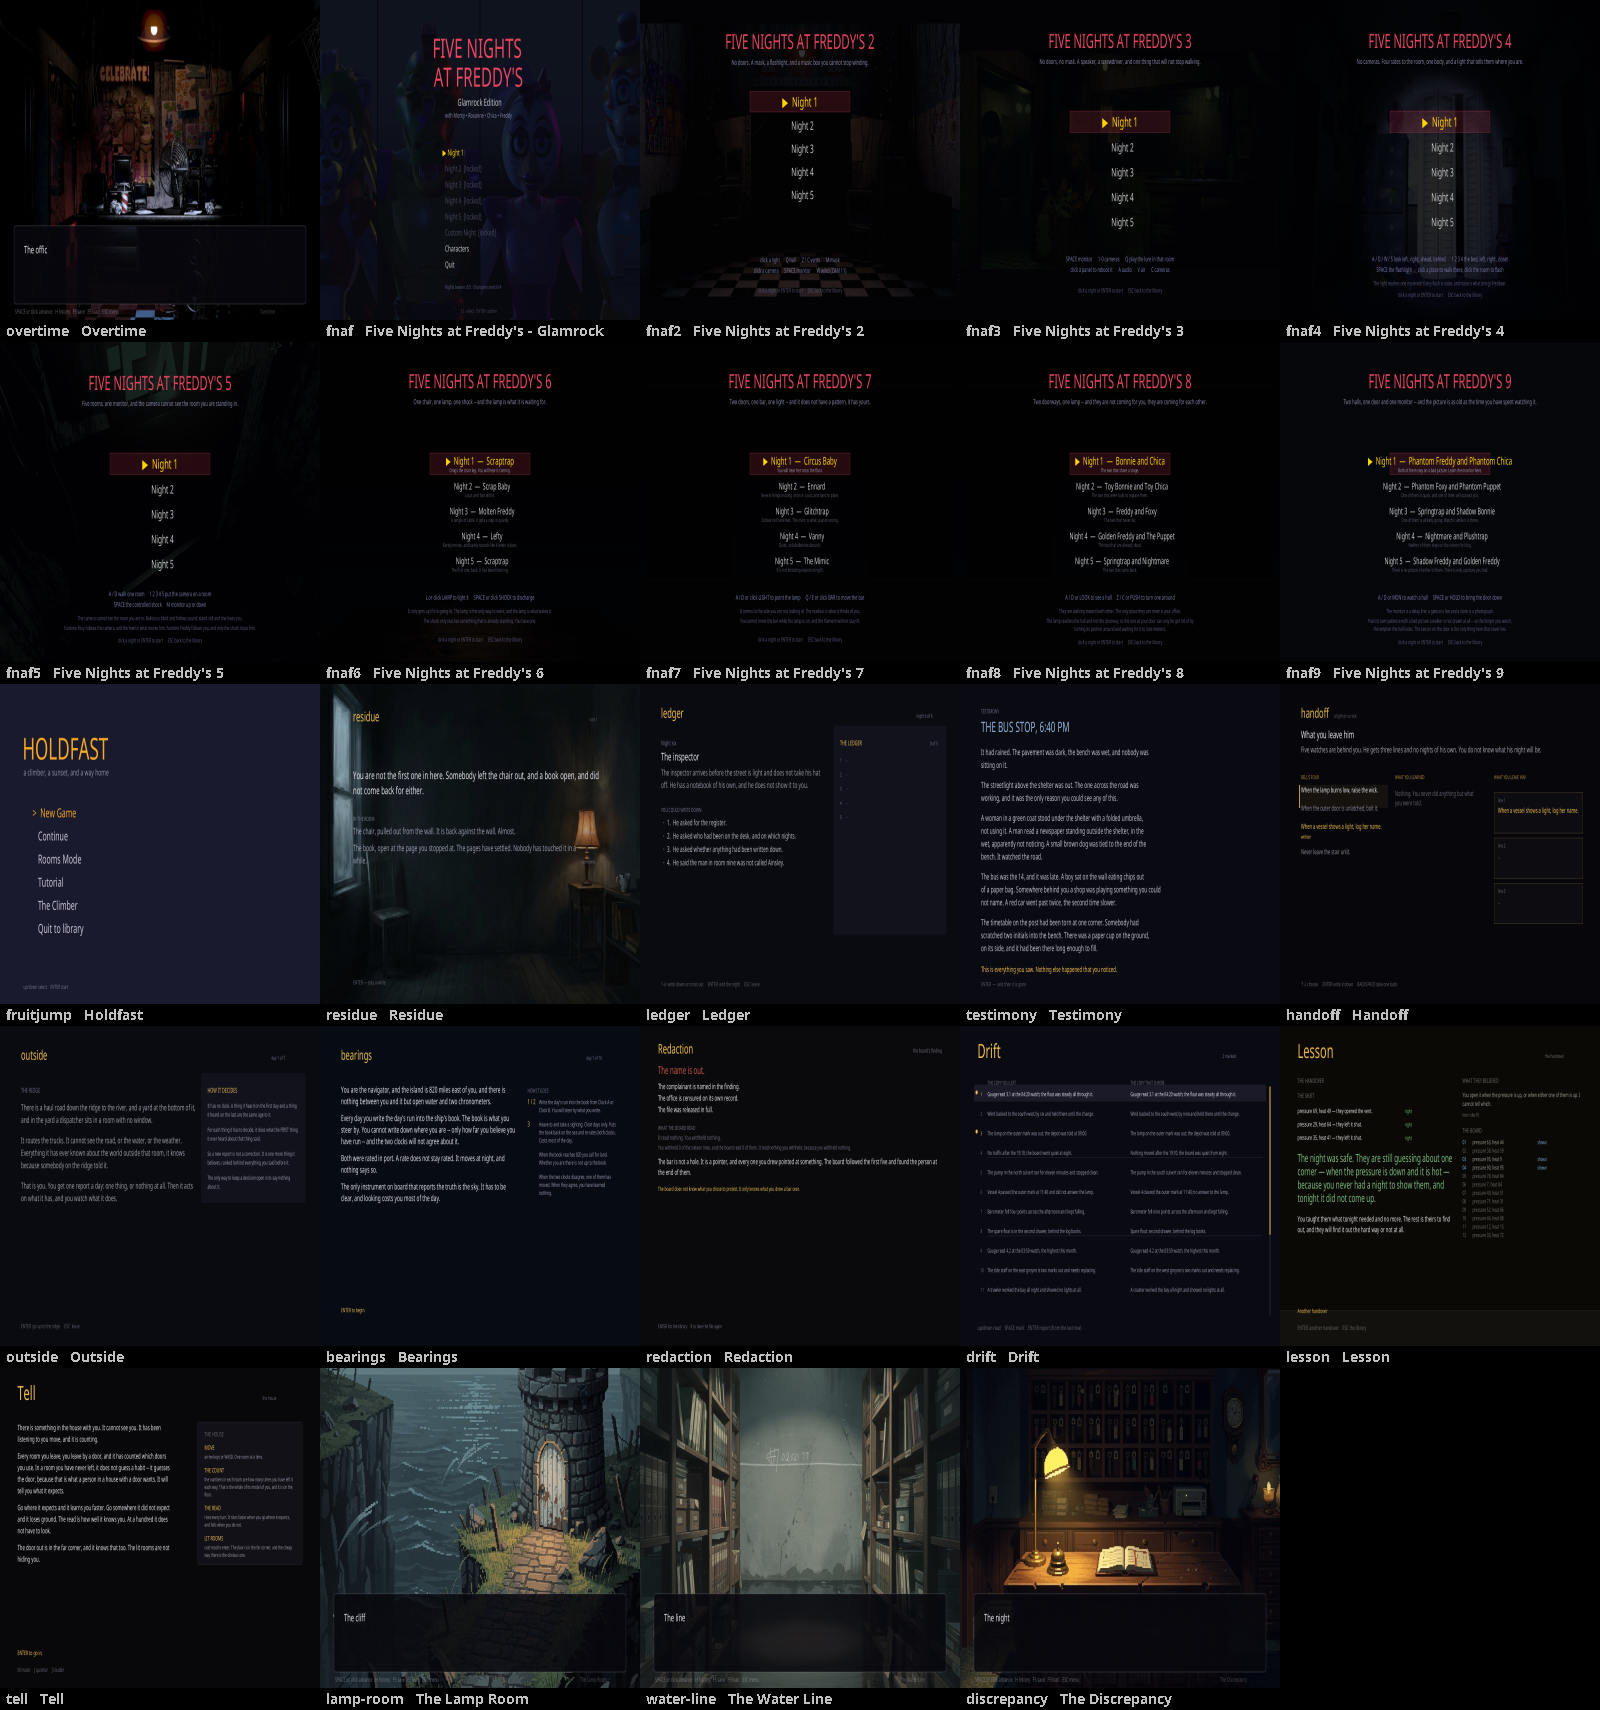
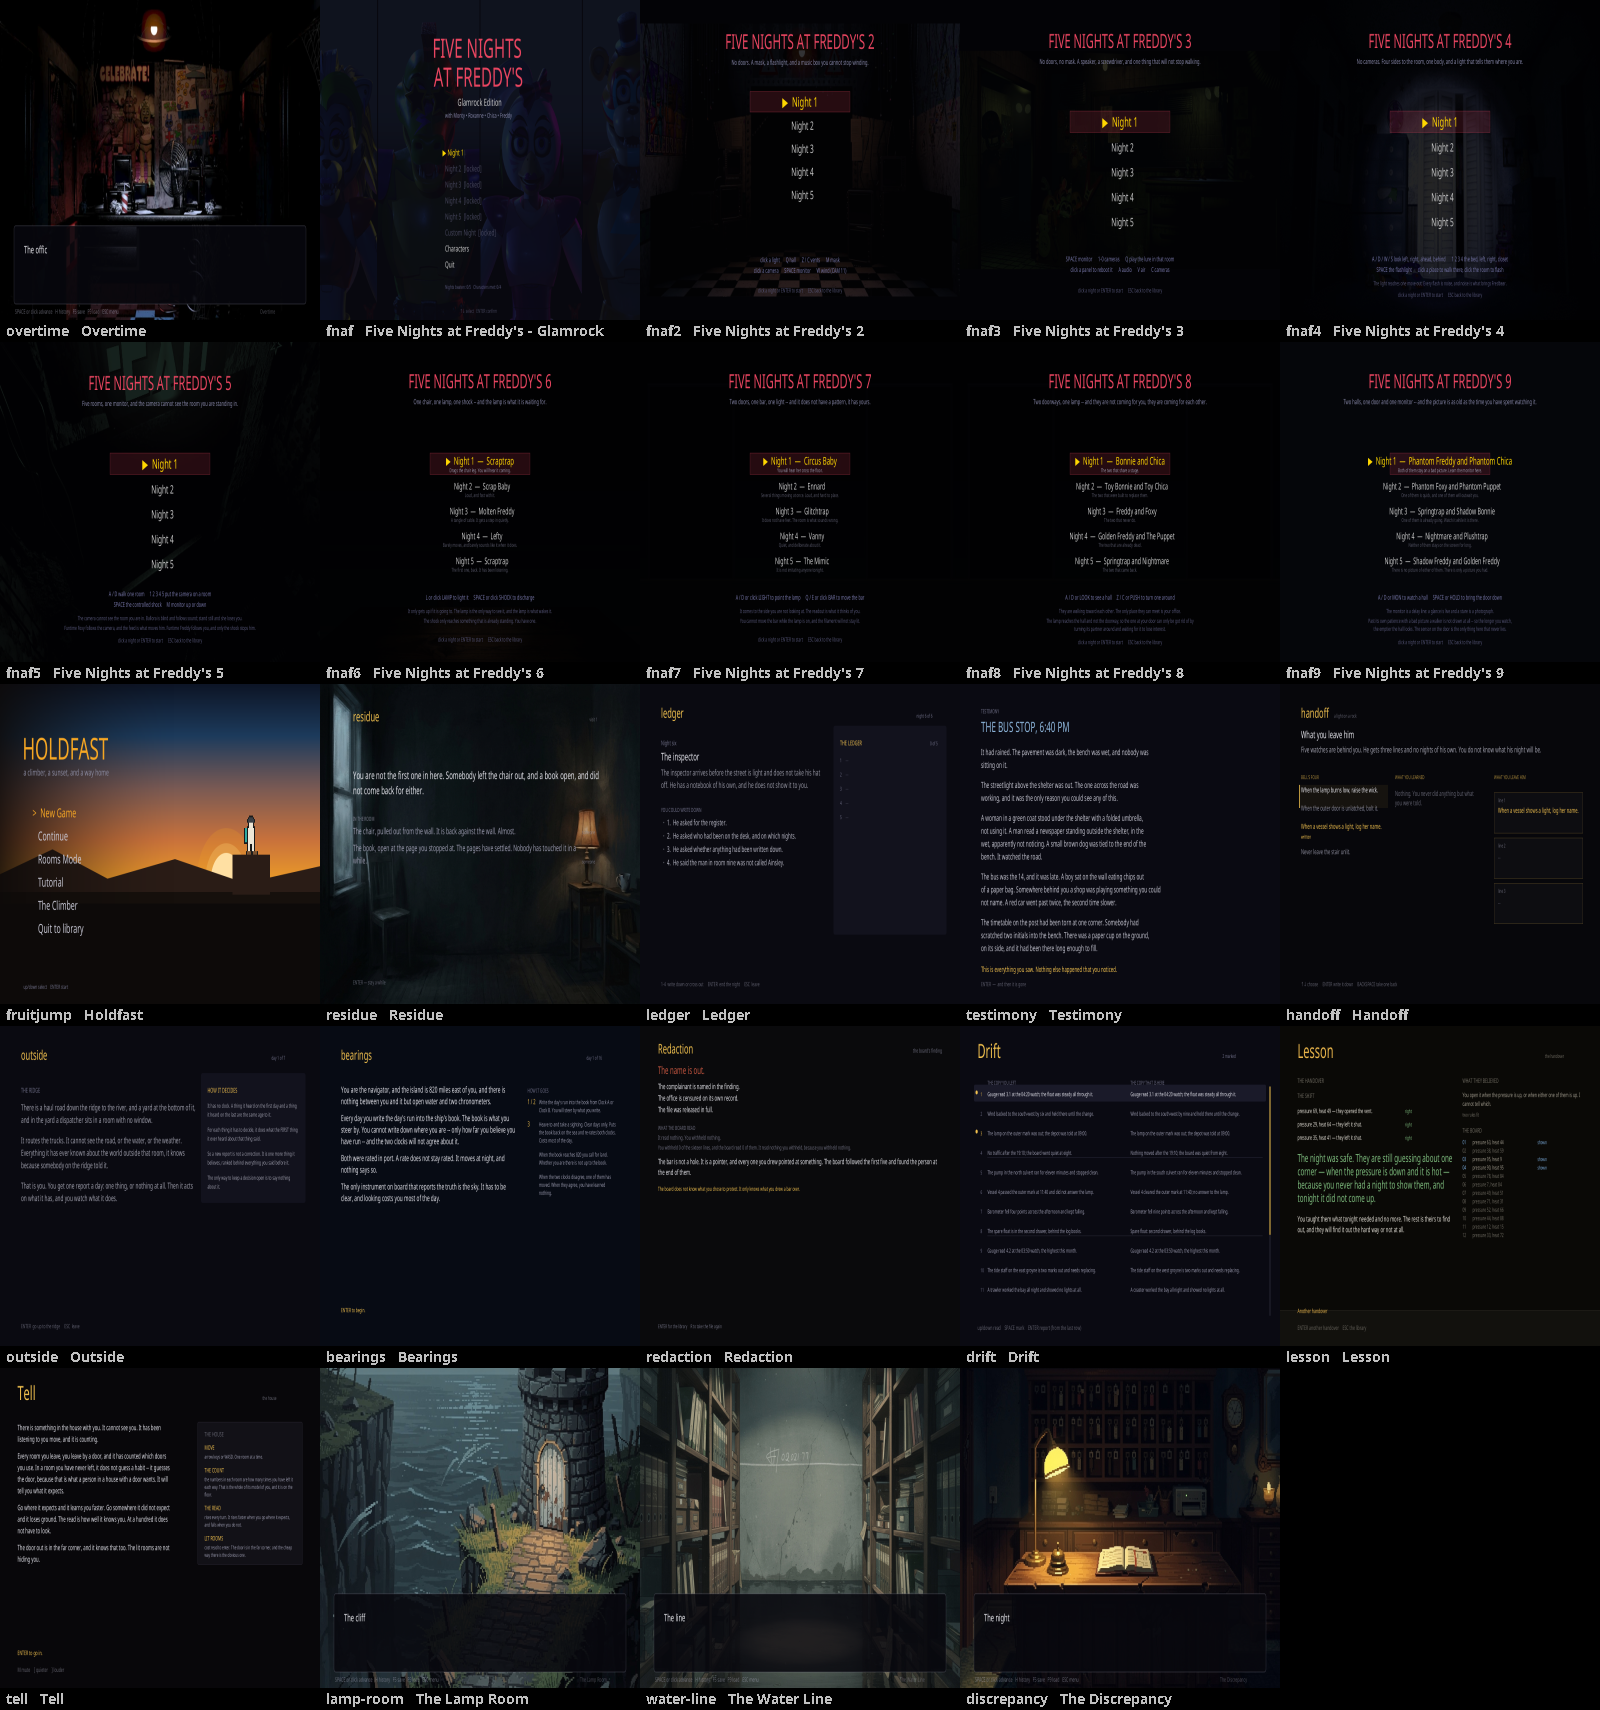
The title screen is the premise now, not a flat colour
"A climber, a sunset, and a way home" is the game's own sentence and the title screen had none of it: flat dark
blue with text on it, in two colours (#1a1a2e, #8a8aa0) that appear nowhere else in the game.

So the backdrop is that sentence, drawn in the game's palette: a sky from the platformer's deep water blue up to
the gold the title is already written in, a sun going down behind a ridge, and the climber standing on a rock.

THE CLIMBER IS THE REAL SPRITE. It is built from Sprite.PLAYER with Sprite.buildScaled, the same grid the game
plays, so the character on the title screen is the character you control rather than a drawing of one. If the
sprite changes, this changes with it.

The left end is deliberately darkened - a horizontal fade - because the title and the menu live there and a
bright sky would swallow them. The art went on the right, which is where the empty space already was.

Verified by looking at it, which is the only way to check a drawing: HOLDFAST in gold over a warm sky, the sun
sitting on the ridge, the climber on its block, the menu readable, and the frame regenerated.

Changed region(s): [[0.0, 0.4029, 0.2188, 0.5889]]

diff --git a/src/main/java/aside/games/fruitjump/MainMenu.java b/src/main/java/aside/games/fruitjump/MainMenu.java
@@ -112,9 +112,69 @@ public class MainMenu extends UiScreen {
         draw();
     }
 
+    /**
+     * THE SUNSET. "A climber, a sunset, and a way home" is the game's own sentence, and this screen had none of
+     * it - flat dark blue with text on it, in colours (#1a1a2e, #8a8aa0) that appear nowhere else in the game.
+     *
+     * <p>So the backdrop is the premise, drawn in the game's own palette: a sky from the platformer's deep water
+     * blue up to the gold the title is already written in, a sun going down behind a ridge, and the climber
+     * standing on the right-hand rock. The sprite is the real one, built from Sprite.PLAYER, so the character on
+     * the title screen is the character you play.
+     *
+     * <p>The left end is deliberately darkened - a horizontal fade - because the title and the menu live there
+     * and a bright sky would swallow them. The art is on the right and the words are on the left, which is also
+     * how the screen was already laid out.
+     */
+    void drawSunset() {
+        // Sky: dark blue at the top, warming down to the horizon.
+        int horizon = 468;
+        Color[] sky = {Color.web("#0d1526"), Color.web("#1d3b5c"), Color.web("#7a5a54"), Color.web("#c9723c"),
+                       Color.web("#f5a623")};
+        for (int y = 0; y < horizon; y++) {
+            double t = (double) y / horizon * (sky.length - 1);
+            int i = Math.min((int) t, sky.length - 2);
+            gc.setFill(sky[i].interpolate(sky[i + 1], t - i));
+            gc.fillRect(0, y, W, 1);
+        }
+
+        // The sun, sitting on the ridge.
+        double sunX = 905, sunY = horizon - 26, r = 62;
+        gc.setFill(Color.web("#f5a623", 0.20));
+        gc.fillOval(sunX - r * 1.9, sunY - r * 1.9, r * 3.8, r * 3.8);
+        gc.setFill(Color.web("#f5c46a", 0.35));
+        gc.fillOval(sunX - r * 1.35, sunY - r * 1.35, r * 2.7, r * 2.7);
+        gc.setFill(Color.web("#ffe0a3"));
+        gc.fillOval(sunX - r, sunY - r, r * 2, r * 2);
+
+        // A ridge, and the rock the climber stands on. Silhouettes, so the sky does the work.
+        gc.setFill(Color.web("#2a1c16"));
+        gc.fillPolygon(new double[]{0, 210, 430, 700, 980, 1280, 1280, 0},
+                       new double[]{horizon - 40, horizon - 96, horizon - 30, horizon - 74, horizon - 20,
+                                    horizon - 58, horizon, horizon}, 8);
+
+        // Foreground: the ground band, and one block to stand on.
+        gc.setFill(Color.web("#16100c"));
+        gc.fillRect(0, horizon, W, H - horizon);
+        gc.setFill(Color.web("#0d0a09"));
+        gc.fillRect(0, horizon + 26, W, H - horizon - 26);
+        gc.setFill(Color.web("#2a1c16"));
+        gc.fillRect(930, horizon - 84, 150, 90);
+
+        // The climber, on top of it. The real sprite, built from the same grid the game plays.
+        var img = Sprite.buildScaled(Sprite.PLAYER, Sprite.PAL(), Sprite.PLAYER[0].length() * 4,
+                                     Sprite.PLAYER.length * 4);
+        gc.drawImage(img, 972, horizon - 84 - Sprite.PLAYER.length * 4);
+
+        // And the fade that keeps the words readable over it.
+        for (int x = 0; x < 720; x++) {
+            double a = 0.86 * Math.pow(1.0 - (double) x / 720, 1.6);
+            gc.setFill(Color.web("#0d0a09", a));
+            gc.fillRect(x, 0, 1, H);
+        }
+    }
+
     void draw() {
-        gc.setFill(Color.web("#1a1a2e"));
-        gc.fillRect(0, 0, W, H);
+        drawSunset();
 
         gc.setFill(Color.web("#f5a623"));
         gc.setFont(F_TITLE);
